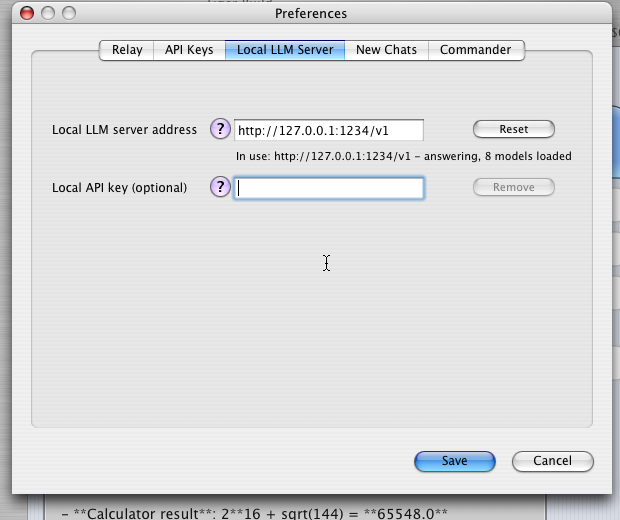
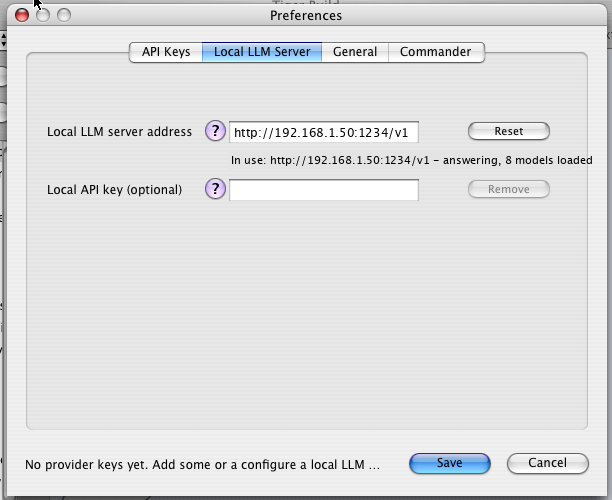
2.0: one Keychain item for all secrets (one permission prompt), launch screens for documentation screenshots, retaken Preferences and MCP screenshots, tighter Commander buttons

Changed region(s): [[0.0, 0.0, 1.0, 1.0]]

diff --git a/tiger-build/TBHEIC.m b/tiger-build/TBHEIC.m
@@ -467,7 +467,7 @@ static NSData *jpegFromRGB(uint8_t *rgb, unsigned width, unsigned height, int ro
     }
     /* the picture */
     {
-        Item *main = [[items objectForKey:[NSNumber numberWithUnsignedInt:primary]] pointerValue];
+        Item *primaryItem = [[items objectForKey:[NSNumber numberWithUnsignedInt:primary]] pointerValue];
         NSData *result = nil;
         NSString *why = nil;
         int rotation = 0;
@@ -477,17 +477,17 @@ static NSData *jpegFromRGB(uint8_t *rgb, unsigned width, unsigned height, int ro
         uint8_t *canvas = NULL;
         NSEnumerator *each;
         id key;
-        if (!main) {
+        if (!primaryItem) {
             *problem = @"The HEIC file has no main picture.";
             goto done;
         }
-        if (!strcmp(main->type, "av01")) {
+        if (!strcmp(primaryItem->type, "av01")) {
             *problem = @"AVIF pictures cannot be converted on these Macs.";
             goto done;
         }
-        /* properties of the main item */
-        for (i = 0; i < [main->properties count]; i++) {
-            NSData *pr = [main->properties objectAtIndex:i];
+        /* properties of the primaryItem item */
+        for (i = 0; i < [primaryItem->properties count]; i++) {
+            NSData *pr = [primaryItem->properties objectAtIndex:i];
             const uint8_t *q = [pr bytes];
             unsigned n = [pr length];
             if (n >= 16 && !memcmp(q, "ispe", 4)) {
@@ -504,41 +504,41 @@ static NSData *jpegFromRGB(uint8_t *rgb, unsigned width, unsigned height, int ro
             *problem = @"The picture's size is not usable.";
             goto done;
         }
-        if (!strcmp(main->type, "hvc1") || !strcmp(main->type, "hev1")) {
+        if (!strcmp(primaryItem->type, "hvc1") || !strcmp(primaryItem->type, "hev1")) {
             NSData *hvcC = nil;
-            for (i = 0; i < [main->properties count]; i++)
-                if (!memcmp([[main->properties objectAtIndex:i] bytes], "hvcC", 4))
-                    hvcC = [NSData dataWithBytes:(const uint8_t *)[[main->properties objectAtIndex:i] bytes] + 4 length:[[main->properties objectAtIndex:i] length] - 4];
+            for (i = 0; i < [primaryItem->properties count]; i++)
+                if (!memcmp([[primaryItem->properties objectAtIndex:i] bytes], "hvcC", 4))
+                    hvcC = [NSData dataWithBytes:(const uint8_t *)[[primaryItem->properties objectAtIndex:i] bytes] + 4 length:[[primaryItem->properties objectAtIndex:i] length] - 4];
             canvas = malloc((size_t)width * height * 3);
-            if (!hvcC || !canvas || main->constructionMethod != 0) {
+            if (!hvcC || !canvas || primaryItem->constructionMethod != 0) {
                 *problem = @"This kind of HEIC picture is not supported.";
                 goto done;
             }
-            why = decodeItem(main, hvcC, d, total, canvas, width, height, 0, 0, matrix);
+            why = decodeItem(primaryItem, hvcC, d, total, canvas, width, height, 0, 0, matrix);
             if (why) {
                 *problem = why;
                 goto done;
             }
-        } else if (!strcmp(main->type, "grid")) {
+        } else if (!strcmp(primaryItem->type, "grid")) {
             /* a grid of tiles, how an iPhone stores a big picture */
             const uint8_t *g;
             unsigned rows, cols, outW, outH, tile = 0;
             NSMutableArray *tiles = [NSMutableArray array];
             /* the grid's own few bytes are kept in the idat box by most encoders, or in the file */
-            if (main->constructionMethod == 1 && idat && idat->start + main->offset + main->length <= idat->end)
-                g = d + idat->start + main->offset;
-            else if (main->constructionMethod == 0 && main->offset + main->length <= total)
-                g = d + main->offset;
+            if (primaryItem->constructionMethod == 1 && idat && idat->start + primaryItem->offset + primaryItem->length <= idat->end)
+                g = d + idat->start + primaryItem->offset;
+            else if (primaryItem->constructionMethod == 0 && primaryItem->offset + primaryItem->length <= total)
+                g = d + primaryItem->offset;
             else
                 g = NULL;
-            if (!g || main->length < 8) {
+            if (!g || primaryItem->length < 8) {
                 *problem = @"This kind of HEIC picture is not supported.";
                 goto done;
             }
             rows = g[2] + 1;
             cols = g[3] + 1;
             if (g[1] & 1) {
-                if (main->length < 12) { *problem = @"The picture's tiles are damaged."; goto done; }
+                if (primaryItem->length < 12) { *problem = @"The picture's tiles are damaged."; goto done; }
                 outW = be32(g + 4);
                 outH = be32(g + 8);
             } else {
@@ -610,7 +610,7 @@ static NSData *jpegFromRGB(uint8_t *rgb, unsigned width, unsigned height, int ro
                 }
             }
         } else {
-            *problem = [NSString stringWithFormat:@"This kind of HEIC picture (%s) is not supported.", main->type];
+            *problem = [NSString stringWithFormat:@"This kind of HEIC picture (%s) is not supported.", primaryItem->type];
             goto done;
         }
         result = jpegFromRGB(canvas, width, height, rotation, mirror, longest);

diff --git a/tiger-build/TBEngine.m b/tiger-build/TBEngine.m
@@ -1,5 +1,6 @@
 #import "TBEngine.h"
 #import <Security/Security.h>
+#import "TBJSON.h"
 #include <stdarg.h>
 
 NSString *TBErrorException = @"TBError";
@@ -86,18 +87,55 @@ static NSString *kService = @"Tiger Build API keys";
     return value ? [NSString stringWithUTF8String:value] : nil;
 }
 
+/* All the secrets are one Keychain item holding a JSON object, so the system asks for permission once, not once per key. */
+static NSMutableDictionary *secrets = nil;
+static NSString *kAccount = @"keys";
+
++ (NSMutableDictionary *)loadSecrets
+{
+    @synchronized(kService) {
+        if (!secrets) {
+            const char *service = [kService UTF8String];
+            const char *account = [kAccount UTF8String];
+            UInt32 length = 0;
+            void *data = NULL;
+            id parsed = nil;
+            OSStatus status = SecKeychainFindGenericPassword(NULL, strlen(service), service, strlen(account), account, &length, &data, NULL);
+            if (status == noErr) {
+                NSData *json = [NSData dataWithBytes:data length:length];
+                SecKeychainItemFreeContent(NULL, data);
+                parsed = TBJSONParse(json, NULL);
+            } else if (status != errSecItemNotFound)
+                return nil;   /* locked, or the person said no: do not treat it as empty, or a save would erase the keys */
+            secrets = [[NSMutableDictionary alloc] initWithDictionary:[parsed isKindOfClass:[NSDictionary class]] ? parsed : [NSDictionary dictionary]];
+        }
+        return secrets;
+    }
+    return nil;
+}
+
++ (BOOL)saveSecrets
+{
+    NSData *json = TBJSONData(secrets);
+    const char *service = [kService UTF8String];
+    const char *account = [kAccount UTF8String];
+    SecKeychainItemRef item = NULL;
+    OSStatus status;
+    if (SecKeychainFindGenericPassword(NULL, strlen(service), service, strlen(account), account, NULL, NULL, &item) == noErr && item) {
+        status = SecKeychainItemModifyAttributesAndData(item, NULL, [json length], [json bytes]);
+        CFRelease(item);
+        return status == noErr;
+    }
+    return SecKeychainAddGenericPassword(NULL, strlen(service), service, strlen(account), account, [json length], [json bytes], NULL) == noErr;
+}
+
 + (NSString *)keychainValueForName:(NSString *)name
 {
-    const char *service = [kService UTF8String];
-    const char *account = [name UTF8String];
-    UInt32 length = 0;
-    void *data = NULL;
-    NSString *result = nil;
-    if (SecKeychainFindGenericPassword(NULL, strlen(service), service, strlen(account), account, &length, &data, NULL) == noErr) {
-        result = [[[NSString alloc] initWithBytes:data length:length encoding:NSUTF8StringEncoding] autorelease];
-        SecKeychainItemFreeContent(NULL, data);
+    @synchronized(kService) {
+        id v = [[self loadSecrets] objectForKey:name];
+        return [v isKindOfClass:[NSString class]] ? v : nil;
     }
-    return result;
+    return nil;
 }
 
 + (NSString *)valueForName:(NSString *)name
@@ -120,12 +158,13 @@ static NSString *kService = @"Tiger Build API keys";
 + (void)clearName:(NSString *)name
 {
     if ([self isSecret:name]) {
-        const char *service = [kService UTF8String];
-        const char *account = [name UTF8String];
-        SecKeychainItemRef item = NULL;
-        if (SecKeychainFindGenericPassword(NULL, strlen(service), service, strlen(account), account, NULL, NULL, &item) == noErr && item) {
-            SecKeychainItemDelete(item);
-            CFRelease(item);
+        @synchronized(kService) {
+            if (![self loadSecrets])
+                return;
+            if ([secrets objectForKey:name]) {
+                [secrets removeObjectForKey:name];
+                [self saveSecrets];
+            }
         }
     } else {
         [[NSUserDefaults standardUserDefaults] removeObjectForKey:[@"TBSetting." stringByAppendingString:name]];
@@ -141,11 +180,13 @@ static NSString *kService = @"Tiger Build API keys";
         return YES;
     }
     if ([self isSecret:name]) {
-        const char *service = [kService UTF8String];
-        const char *account = [name UTF8String];
-        const char *secret = [value UTF8String];
-        [self clearName:name];
-        return SecKeychainAddGenericPassword(NULL, strlen(service), service, strlen(account), account, strlen(secret), secret, NULL) == noErr;
+        @synchronized(kService) {
+            if (![self loadSecrets])
+                return NO;
+            [secrets setObject:value forKey:name];
+            return [self saveSecrets];
+        }
+        return NO;
     }
     [[NSUserDefaults standardUserDefaults] setObject:value forKey:[@"TBSetting." stringByAppendingString:name]];
     [[NSUserDefaults standardUserDefaults] synchronize];

diff --git a/tiger-build/ChatController+Preferences.m b/tiger-build/ChatController+Preferences.m
@@ -464,7 +464,7 @@ static NSString *trimmedValue(NSTextField *field)
     tab = [self preferencesTab:@"Commander" in:tabs];
     y = 292;
     [self preferencesNote:@"Commander runs on this Mac. To run the tools on a different Mac over SSH instead, enter its address and account, then follow the steps: "
-        @"Copy Public Key (add it to that Mac's ~/.ssh/authorized_keys), Trust Host, Install Commander, Test. Leave the address empty to use this Mac."
+        @"Copy Key (add it to that Mac's ~/.ssh/authorized_keys), Trust Host, Install (copies Commander there), Test. Leave the address empty to use this Mac."
         frame:NSMakeRect(16, y - 40, 520, 58) inView:tab];
     y -= 82;
     [self preferencesRow:@"Other Mac's address" key:@"ssh_host" y:y secure:NO width:190
@@ -479,11 +479,11 @@ static NSString *trimmedValue(NSTextField *field)
         help:@"Only needed if the account's home folder on that Mac is not /Users/NAME."
         removable:nil inView:tab];
     y -= 40;
-    [self preferencesButton:@"Copy Public Key" frame:NSMakeRect(16, y, 120, 28) action:@selector(copySSHKey:) inView:tab];
-    [self preferencesButton:@"Trust Host..." frame:NSMakeRect(140, y, 104, 28) action:@selector(trustSSHHost:) inView:tab];
-    [self preferencesButton:@"Install Commander" frame:NSMakeRect(248, y, 130, 28) action:@selector(installSSHCommander:) inView:tab];
-    [self preferencesButton:@"Test" frame:NSMakeRect(382, y, 60, 28) action:@selector(testSSH:) inView:tab];
-    [self preferencesButton:@"Use This Mac" frame:NSMakeRect(446, y, 100, 28) action:@selector(disconnectCommander:) inView:tab];
+    [self preferencesButton:@"Copy Key" frame:NSMakeRect(16, y, 84, 28) action:@selector(copySSHKey:) inView:tab];
+    [self preferencesButton:@"Trust Host..." frame:NSMakeRect(104, y, 104, 28) action:@selector(trustSSHHost:) inView:tab];
+    [self preferencesButton:@"Install" frame:NSMakeRect(212, y, 80, 28) action:@selector(installSSHCommander:) inView:tab];
+    [self preferencesButton:@"Test" frame:NSMakeRect(296, y, 64, 28) action:@selector(testSSH:) inView:tab];
+    [self preferencesButton:@"Use This Mac" frame:NSMakeRect(364, y, 118, 28) action:@selector(disconnectCommander:) inView:tab];
     note = [self preferencesNote:@"" frame:NSMakeRect(16, 76, 520, 34) inView:tab];
     [prefsFields setObject:note forKey:@"ssh.status"];
     button = [[[NSButton alloc] initWithFrame:NSMakeRect(16, 46, 400, 20)] autorelease];
@@ -560,7 +560,7 @@ static NSString *trimmedValue(NSTextField *field)
     }
     [[NSPasteboard generalPasteboard] declareTypes:[NSArray arrayWithObject:NSStringPboardType] owner:nil];
     [[NSPasteboard generalPasteboard] setString:key forType:NSStringPboardType];
-    [self setSSHStatus:@"Public key copied. Add it as a line in ~/.ssh/authorized_keys on the other Mac, then choose Trust Host."];
+    [self setSSHStatus:@"Key copied. Add it as a line in ~/.ssh/authorized_keys on the other Mac, then choose Trust Host."];
 }
 
 - (void)trustSSHHost:(id)sender
@@ -581,7 +581,7 @@ static NSString *trimmedValue(NSTextField *field)
         return;
     }
     if ([TBSSH trustHost:[TBSSH host] problem:&problem])
-        [self setSSHStatus:@"Trusted. Now choose Install Commander, or Test."];
+        [self setSSHStatus:@"Trusted. Now choose Install, or Test."];
     else
         [self setSSHStatus:problem];
 }

diff --git a/tiger-build/ChatController.m b/tiger-build/ChatController.m
@@ -246,11 +246,39 @@ static NSMutableArray *allControllers = nil;
     [frameBuffer release];
     [streamingId release];
     [launchQuestion release];
+    [launchScreen release];
     [localModels release];
     [contextPending release];
     [prefsFields release];
     [prefsWindow release];
     [super dealloc];
+}
+
+- (void)setLaunchScreen:(NSString *)spec
+{
+    [launchScreen release];
+    launchScreen = [spec copy];
+}
+
+/* "prefs:N" or "tools:N": that window on its Nth tab (from 0). */
+- (void)openLaunchScreen
+{
+    NSArray *parts = [launchScreen componentsSeparatedByString:@":"];
+    int tab = [parts count] > 1 ? [[parts objectAtIndex:1] intValue] : 0;
+    NSWindow *shown;
+    NSArray *views;
+    unsigned i;
+    if ([[parts objectAtIndex:0] isEqualToString:@"prefs"]) {
+        [self showPreferences:nil];
+        shown = prefsWindow;
+    } else {
+        [self showIntegrations:nil];
+        shown = [[self performSelector:@selector(integrationFields)] objectForKey:@"window"];
+    }
+    views = [[shown contentView] subviews];
+    for (i = 0; i < [views count]; i++)
+        if ([[views objectAtIndex:i] isKindOfClass:[NSTabView class]])
+            [(NSTabView *)[views objectAtIndex:i] selectTabViewItemAtIndex:tab];
 }
 
 - (void)setLaunchQuestion:(NSString *)text
@@ -1775,6 +1803,13 @@ static void dumpMenu(NSMenu *menu, NSString *path, NSMutableDictionary *seen, in
     if (![TBSettings hasKeyForProvider:@"grok"] && ![TBSettings hasKeyForProvider:@"chatgpt"] && ![TBSettings hasKeyForProvider:@"claude"] && ![TBSettings hasKeyForProvider:@"mistral"]
         && ![TBSettings hasKeyForProvider:@"muse"] && ![TBSettings hasKeyForProvider:@"gemini"] && ![[TBProviders localBase] length])
         [self performSelector:@selector(showPreferences:) withObject:nil afterDelay:0.5];
+    if (!launchScreen && [[NSUserDefaults standardUserDefaults] stringForKey:@"TBLaunchScreen"]) {
+        /* The same for a launch from the Finder or `open`, which cannot pass arguments on Tiger; used once. */
+        [self setLaunchScreen:[[NSUserDefaults standardUserDefaults] stringForKey:@"TBLaunchScreen"]];
+        [[NSUserDefaults standardUserDefaults] removeObjectForKey:@"TBLaunchScreen"];
+    }
+    if (launchScreen)
+        [self performSelector:@selector(openLaunchScreen) withObject:nil afterDelay:1.0];
     if (launchQuestion) {
         [input setStringValue:launchQuestion];
         [self performSelector:@selector(send:) withObject:nil afterDelay:0.4];

diff --git a/tiger-build/main.m b/tiger-build/main.m
@@ -29,6 +29,10 @@ int main(int argc, char *argv[])
         if (strcmp(argv[i], "--ask") == 0 && i + 1 < argc) {
             [controller setLaunchQuestion:[NSString stringWithUTF8String:argv[i + 1]]];
             i++;
+        } else if (strcmp(argv[i], "--screen") == 0 && i + 1 < argc) {
+            /* For the documentation's screenshots: "prefs:2" opens Preferences on its third tab, "tools:1" the tools window. */
+            [controller setLaunchScreen:[NSString stringWithUTF8String:argv[i + 1]]];
+            i++;
         }
     }
     [app setDelegate:controller];

diff --git a/tiger-build/ChatController.h b/tiger-build/ChatController.h
@@ -43,6 +43,7 @@
     NSArray *toolCatalog;
     NSString *commanderProblem;
     NSString *commanderCode;
+    NSString *launchScreen;
     NSString *thinkingText;
     NSMutableArray *queuedGuidance;
     NSArray *editBackup;
@@ -99,6 +100,7 @@
 }
 
 - (void)setLaunchQuestion:(NSString *)text;
+- (void)setLaunchScreen:(NSString *)spec;
 - (void)layoutSubviews;
 
 @end

diff --git a/README.md b/README.md
@@ -82,7 +82,7 @@ Your chat history stays on the Mac. API keys are kept in that Mac's Keychain and
 
 **2. Add keys.** Open **Tiger Build → Preferences**. On the **API Keys** tab paste a key for each service you use, then Save. Keys go to the Keychain; Tiger Build only shows whether one is saved. For LM Studio or Ollama, enter its address on the **Local LLM Server** tab (it can be another computer on your network).
 
-That's it. **Optional:** to run Commander on a different Mac over SSH, use Preferences → Commander (Copy Public Key, Trust Host, Install Commander, Test).
+That's it. **Optional:** to run Commander on a different Mac over SSH, use Preferences → Commander (Copy Key, Trust Host, Install, Test).
 
 **Building it yourself.** On the Mac, in the checkout:
 
